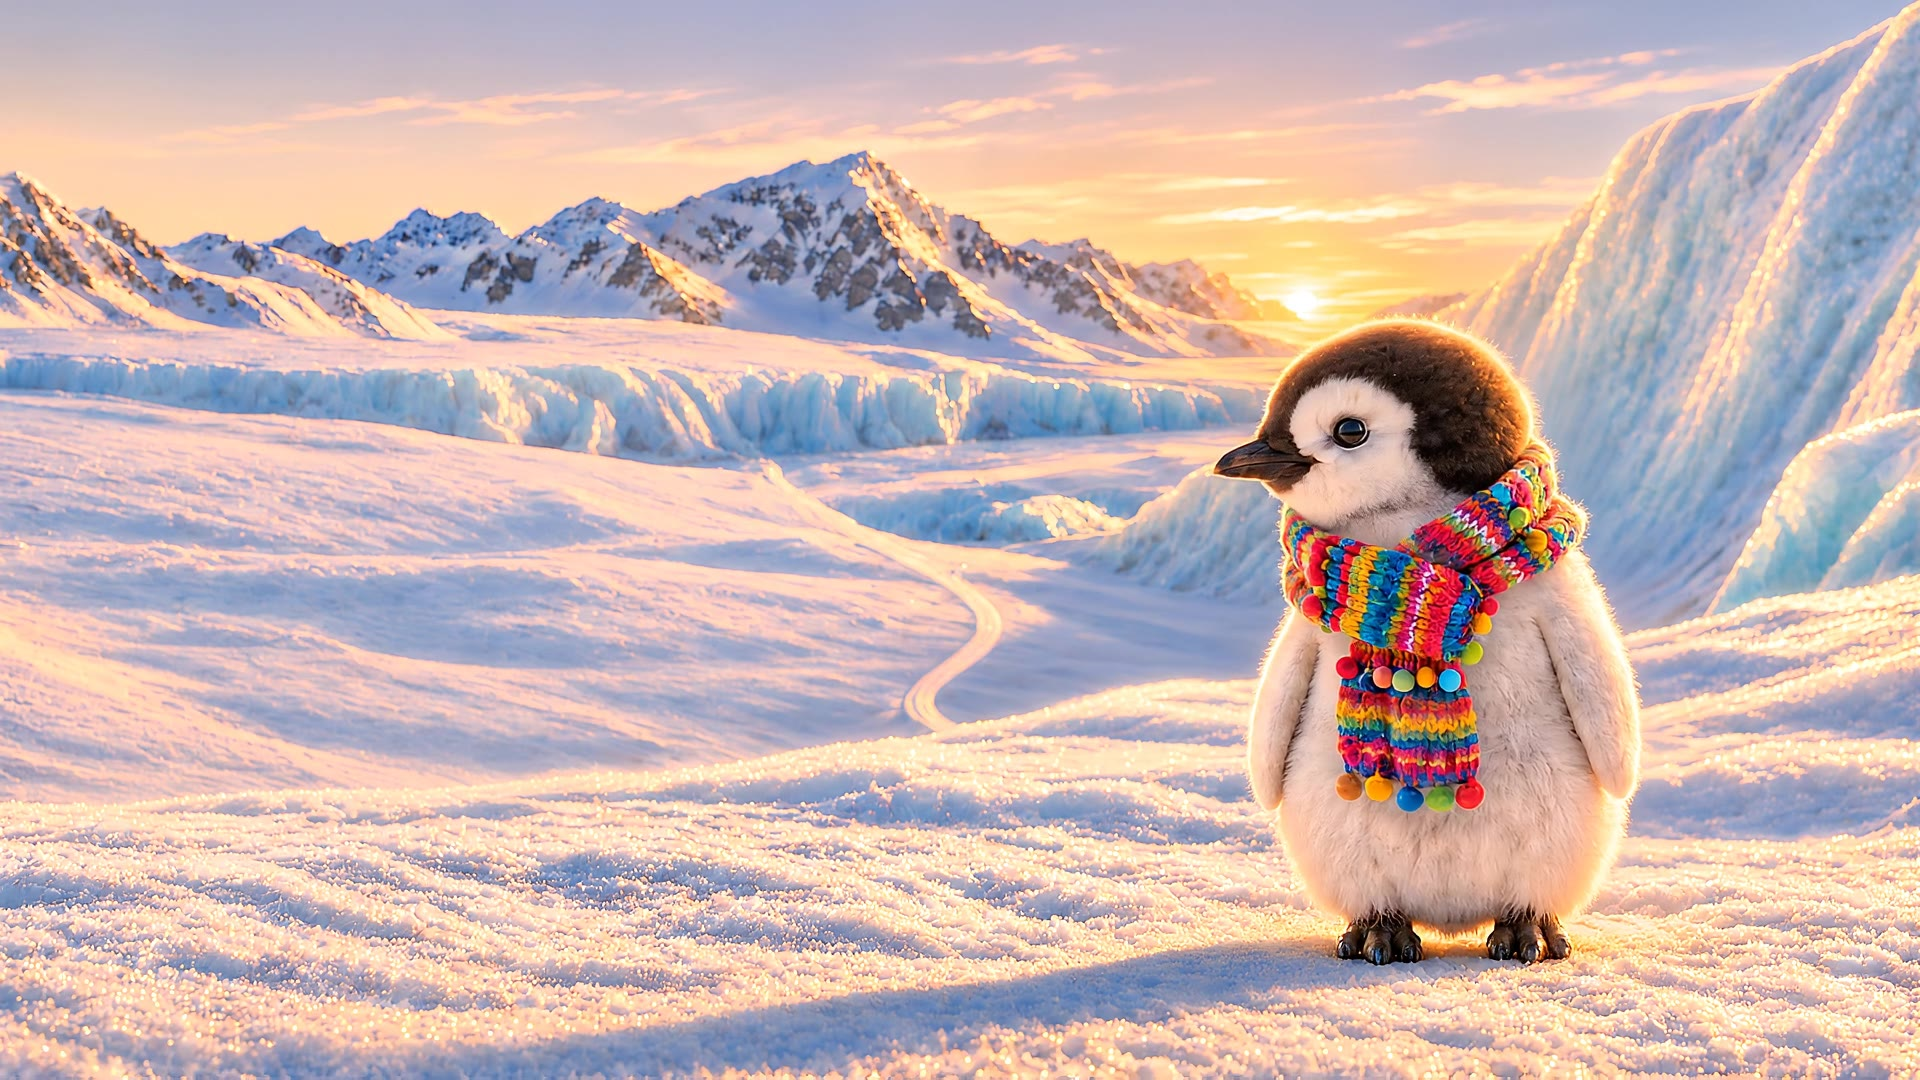
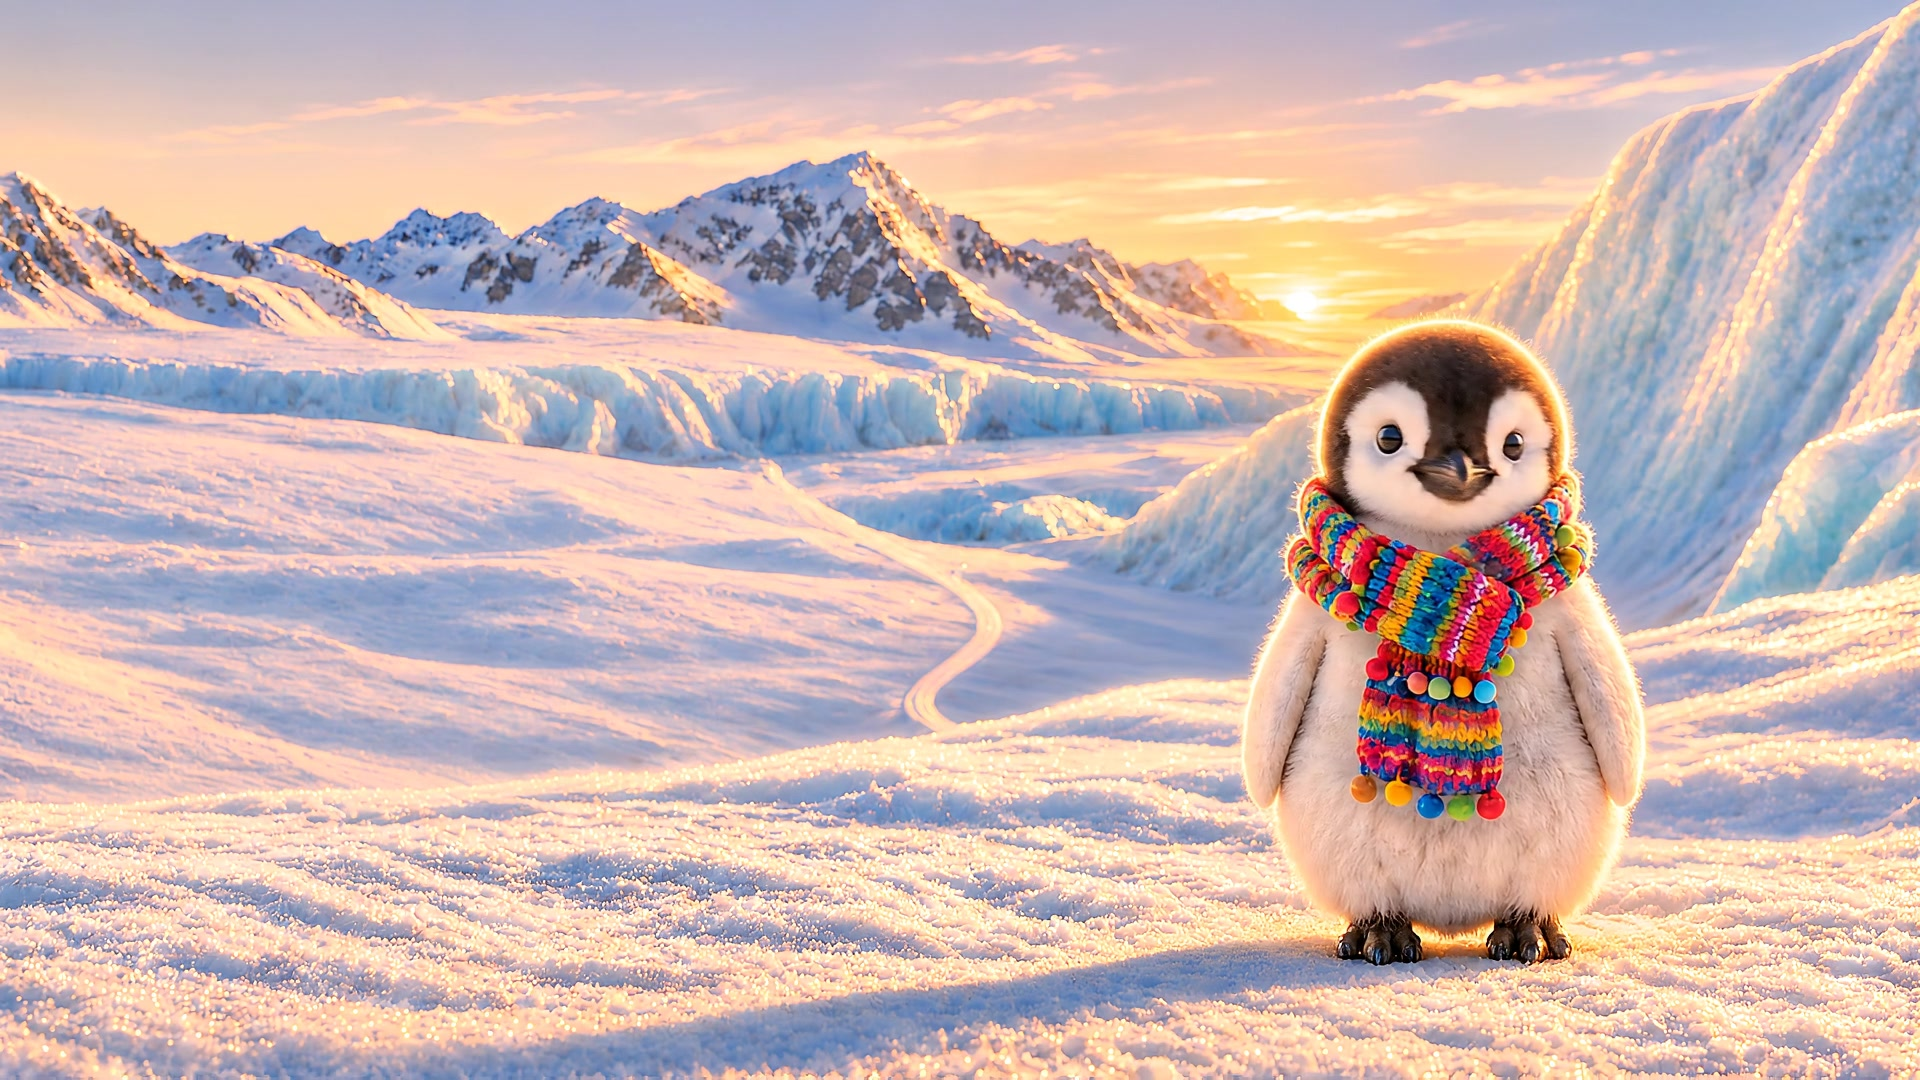
Show front-facing penguin when desktop hero is idle

Changed region(s): [[0.625, 0.275, 0.875, 0.7944], [0.6875, 0.825, 0.8125, 0.8861], [0.5, 0.9167, 0.6875, 0.9778]]

diff --git a/src/components/VideoHero.tsx b/src/components/VideoHero.tsx
@@ -1,14 +1,37 @@
 'use client'
 
 import Link from 'next/link'
-import { useRef, useState } from 'react'
+import { useEffect, useRef, useState } from 'react'
+
+const idleTime = 1.5
 
 export default function VideoHero() {
   const section = useRef<HTMLElement>(null)
   const video = useRef<HTMLVideoElement>(null)
-  const target = useRef(0)
+  const target = useRef(idleTime)
+  const cursorX = useRef<number | null>(null)
   const seeking = useRef(false)
   const [ready, setReady] = useState(false)
+  useEffect(() => {
+    const film = video.current
+    if (!film) return
+    const initialize = () => {
+      if (cursorX.current === null) seekTo(idleTime)
+      else scrub(cursorX.current)
+    }
+    if (film.readyState >= 1) initialize()
+    else film.addEventListener('loadedmetadata', initialize)
+    return () => film.removeEventListener('loadedmetadata', initialize)
+  }, [])
+  function seekTo(time: number) {
+    const film = video.current
+    if (!film || !Number.isFinite(film.duration) || film.duration <= 0) return
+    target.current = time
+    if (!seeking.current && Math.abs(film.currentTime - time) > .035) {
+      seeking.current = true
+      film.currentTime = time
+    }
+  }
   function scrub(clientX: number) {
     const element = section.current
     const film = video.current
@@ -18,11 +41,11 @@ export default function VideoHero() {
     // around it travel through the full, short clip instead of only its end.
     const position = (clientX - rect.left) / rect.width
     const progress = Math.min(1, Math.max(0, (position - .35) / .6))
-    target.current = progress * film.duration
-    if (!seeking.current && Math.abs(film.currentTime - target.current) > .035) {
-      seeking.current = true
-      film.currentTime = target.current
-    }
+    seekTo(progress * film.duration)
   }
-  return <section ref={section} className="hero-scroll" aria-label="Little Penguin collection" onPointerEnter={event => scrub(event.clientX)} onPointerMove={event => scrub(event.clientX)} onPointerDown={event => scrub(event.clientX)}><div className="hero-sticky"><video ref={video} className={`hero-video ${ready ? 'video-ready' : ''}`} poster="/hero-poster.jpg" muted playsInline preload="auto" onLoadedMetadata={() => { setReady(true); target.current = 0; if (video.current) video.current.currentTime = 0 }} onSeeked={() => { seeking.current = false; if (video.current && Math.abs(video.current.currentTime - target.current) > .06) { seeking.current = true; video.current.currentTime = target.current } }} aria-hidden="true"><source src="/little-penguin-film.mp4" type="video/mp4" media="(min-width: 761px)"/></video><div className="hero-mobile-image" role="img" aria-label="Baby penguin in a colorful scarf in a snowy mountain landscape"/><div className="hero-wash"/><div className="hero-content"><div className="hero-kicker">The world of Little Penguin</div><h1>Little comforts,<br/><em>big adventures.</em></h1><p>Made with love for your little ones. Comfy pieces for all the wonderful places they&apos;ll go.</p><Link href="/shop" className="button hero-button">Explore collection</Link></div></div></section>
+  function followCursor(clientX: number) {
+    cursorX.current = clientX
+    scrub(clientX)
+  }
+  return <section ref={section} className="hero-scroll" aria-label="Little Penguin collection" onPointerEnter={event => followCursor(event.clientX)} onPointerMove={event => followCursor(event.clientX)} onPointerDown={event => followCursor(event.clientX)} onPointerLeave={() => { cursorX.current = null; seekTo(idleTime) }}><div className="hero-sticky"><video ref={video} className={`hero-video ${ready ? 'video-ready' : ''}`} poster="/hero-poster.jpg" muted playsInline preload="auto" onSeeked={() => { seeking.current = false; if (video.current && Math.abs(video.current.currentTime - target.current) > .06) { seeking.current = true; video.current.currentTime = target.current } else { setReady(true) } }} aria-hidden="true"><source src="/little-penguin-film.mp4" type="video/mp4" media="(min-width: 761px)"/></video><div className="hero-mobile-image" role="img" aria-label="Baby penguin in a colorful scarf in a snowy mountain landscape"/><div className="hero-wash"/><div className="hero-content"><div className="hero-kicker">The world of Little Penguin</div><h1>Little comforts,<br/><em>big adventures.</em></h1><p>Made with love for your little ones. Comfy pieces for all the wonderful places they&apos;ll go.</p><Link href="/shop" className="button hero-button">Explore collection</Link></div></div></section>
 }

diff --git a/src/app/store.css b/src/app/store.css
@@ -49,6 +49,7 @@ body{background:var(--cream)}.eyebrow{color:var(--gold-dark)}.button{background:
 @media(max-width:380px){.hero-content{top:87px;width:67%}.hero-content h1{font-size:1.9rem}}
 
 .hero-mobile-image{display:none}
+.hero-video:not(.video-ready){opacity:0}
 @media(max-width:760px){
   .hero-scroll{height:50svh;min-height:375px;max-height:480px;background:#efdcc8}
   .hero-sticky{height:100%;min-height:0;position:relative}
